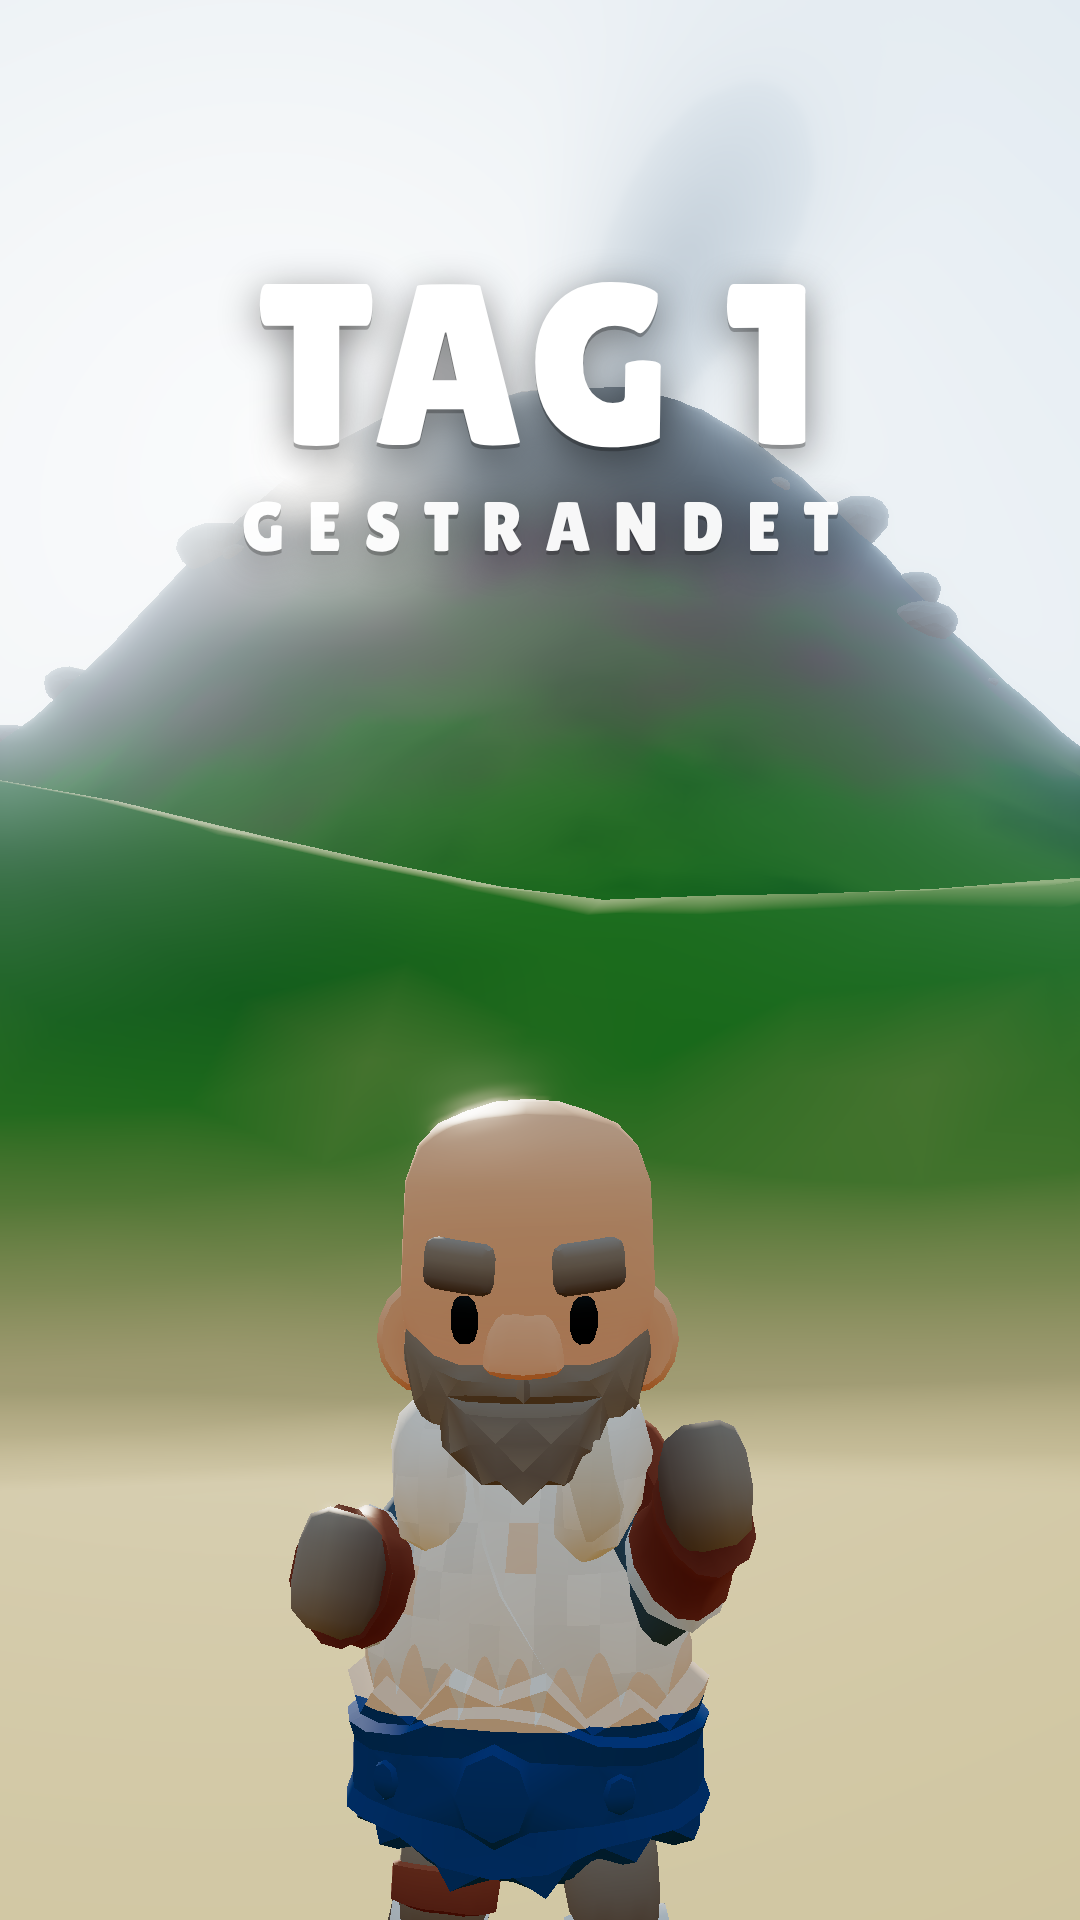
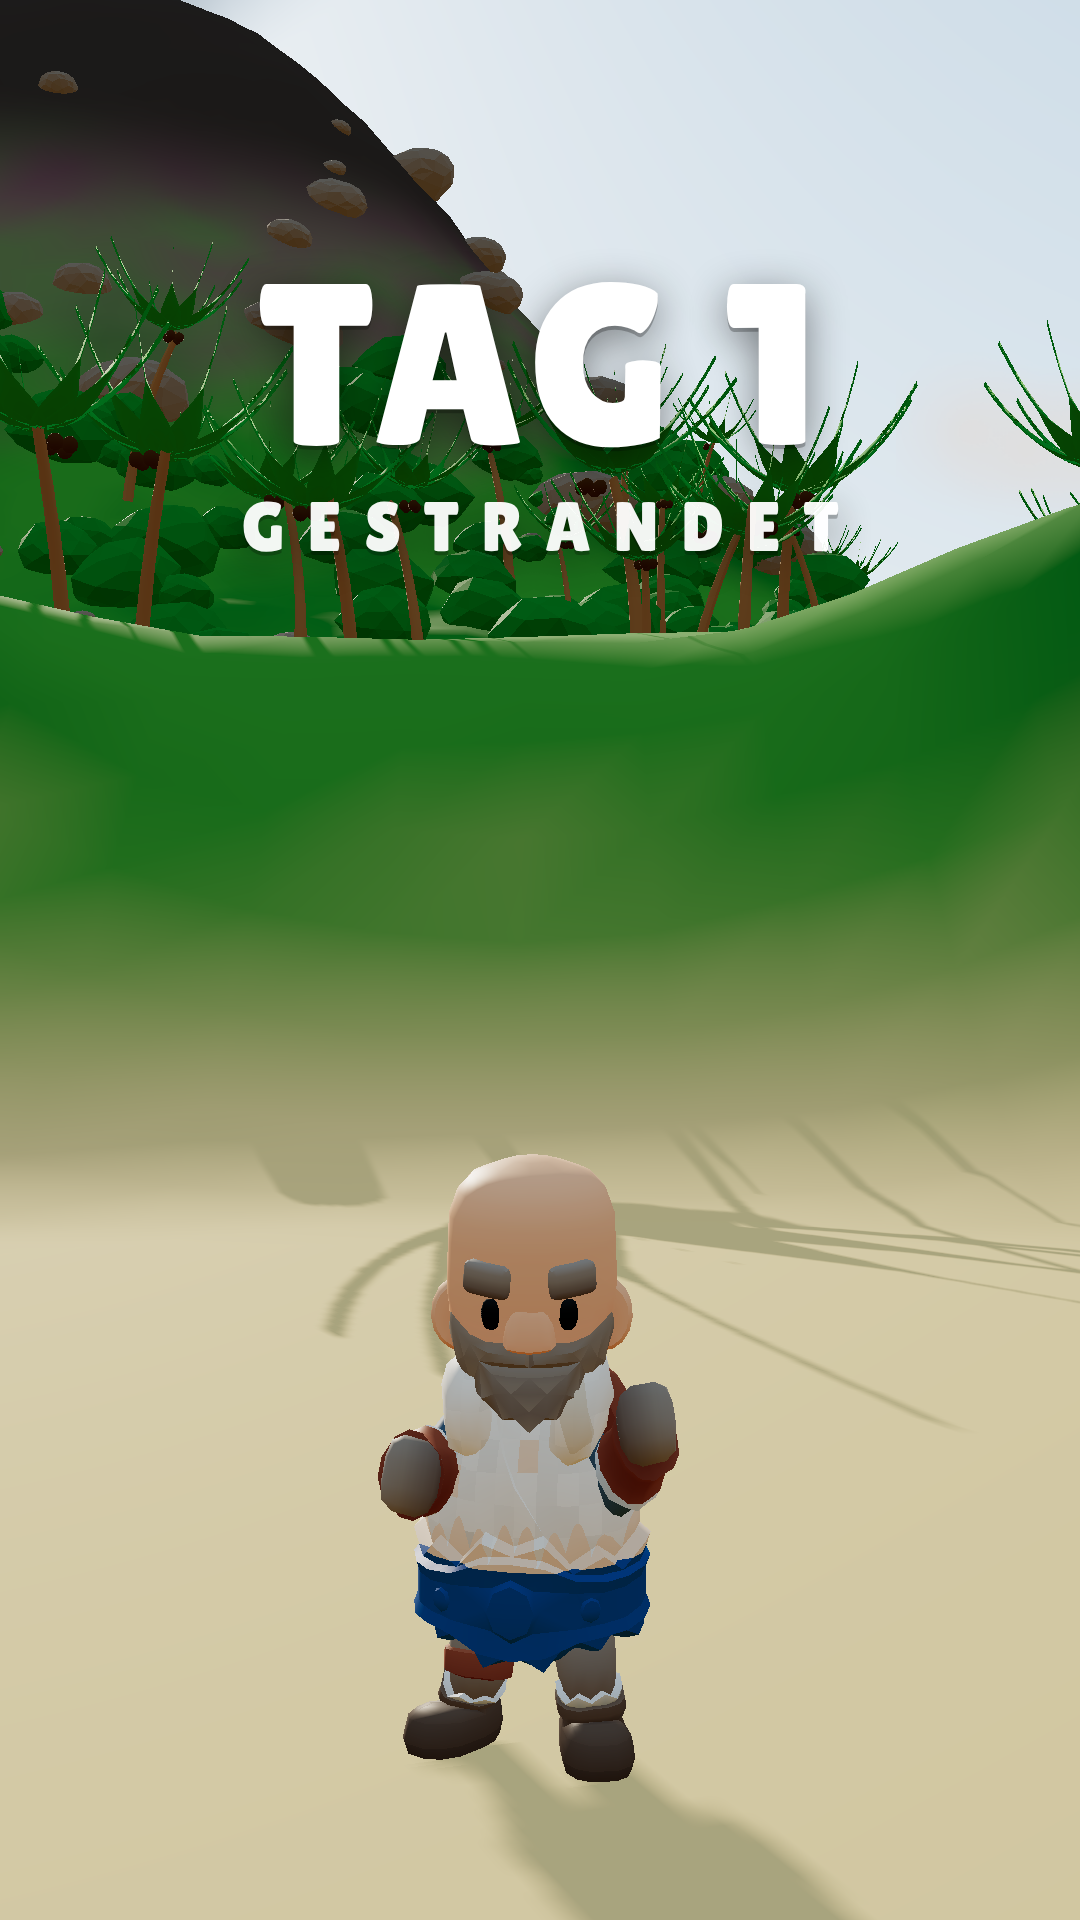
Gestrandet Tag 1: neues, schlichtes Thumbnail mit scharfer Insel
Claude-Session: https://claude.ai/code/session_018P2byEHYqSH1WwRmbtpSUq

diff --git a/gestrandet/vorschau-tag1/index.html b/gestrandet/vorschau-tag1/index.html
@@ -760,6 +760,21 @@ loaded.then(() => {
       renderer.setPixelRatio(1); renderer.setSize(1080, 1920, false); composer.setSize(1080, 1920);
     },
     warp: x => x,
+    thumb2(back, up, fov, tY, clear) {
+      renderAt(W.okay + 3.2);
+      scene.fog = null; bloom.strength = 0; renderer.toneMappingExposure = 0.9;
+      const P = GUY_POS.clone();
+      if (clear) scene.traverse(o => { if (!o.isInstancedMesh) return; const L = [veg.palms, veg.bushes, veg.rocks].find(l => l.length === o.count); if (!L) return;
+        L.forEach(([x, y, z], i) => { const dx = x - P.x, dz = z - P.z; if (dz > -clear && dz < back + 2 && Math.abs(dx) < 4 + Math.max(0, -dz) * 0.5) { o.getMatrixAt(i, _m); _m.decompose(_pp, _q, _s); _s.set(0, 0, 0); _m.compose(_pp, _q, _s); o.setMatrixAt(i, _m); } });
+        o.instanceMatrix.needsUpdate = true; });
+      guy.rotation.y = 0; poseAt(W.okay + 3.2); guy.position.copy(P);
+      kevin.visible = false; parrots.forEach(p => p.b.visible = false);
+      scene.traverse(o => { if (o.isGroup && o.children.length === 2 && o.position.distanceTo(GUY_POS) < 3 && o !== kevin && o !== guy) o.visible = false; });
+      camera.fov = fov; camera.updateProjectionMatrix();
+      camera.position.set(P.x, P.y + up, P.z + back);
+      camera.lookAt(P.x, P.y + tY, P.z - 60);
+      composer.render();
+    },
     thumb(dist, up, side, fov, lookUp) {
       renderAt(W.okay + 3.2);
       // a viewpoint on the slope, facing away from the volcano

diff --git a/gestrandet/vorschau-tag1/render.html b/gestrandet/vorschau-tag1/render.html
@@ -761,6 +761,21 @@ loaded.then(() => {
       renderer.setPixelRatio(1); renderer.setSize(1080, 1920, false); composer.setSize(1080, 1920);
     },
     warp: x => x,
+    thumb2(back, up, fov, tY, clear) {
+      renderAt(W.okay + 3.2);
+      scene.fog = null; bloom.strength = 0; renderer.toneMappingExposure = 0.9;
+      const P = GUY_POS.clone();
+      if (clear) scene.traverse(o => { if (!o.isInstancedMesh) return; const L = [veg.palms, veg.bushes, veg.rocks].find(l => l.length === o.count); if (!L) return;
+        L.forEach(([x, y, z], i) => { const dx = x - P.x, dz = z - P.z; if (dz > -clear && dz < back + 2 && Math.abs(dx) < 4 + Math.max(0, -dz) * 0.5) { o.getMatrixAt(i, _m); _m.decompose(_pp, _q, _s); _s.set(0, 0, 0); _m.compose(_pp, _q, _s); o.setMatrixAt(i, _m); } });
+        o.instanceMatrix.needsUpdate = true; });
+      guy.rotation.y = 0; poseAt(W.okay + 3.2); guy.position.copy(P);
+      kevin.visible = false; parrots.forEach(p => p.b.visible = false);
+      scene.traverse(o => { if (o.isGroup && o.children.length === 2 && o.position.distanceTo(GUY_POS) < 3 && o !== kevin && o !== guy) o.visible = false; });
+      camera.fov = fov; camera.updateProjectionMatrix();
+      camera.position.set(P.x, P.y + up, P.z + back);
+      camera.lookAt(P.x, P.y + tY, P.z - 60);
+      composer.render();
+    },
     thumb(dist, up, side, fov, lookUp) {
       renderAt(W.okay + 3.2);
       // a viewpoint on the slope, facing away from the volcano

diff --git a/gestrandet/vorschau-tag1/template.html b/gestrandet/vorschau-tag1/template.html
@@ -760,6 +760,21 @@ loaded.then(() => {
       renderer.setPixelRatio(1); renderer.setSize(1080, 1920, false); composer.setSize(1080, 1920);
     },
     warp: x => x,
+    thumb2(back, up, fov, tY, clear) {
+      renderAt(W.okay + 3.2);
+      scene.fog = null; bloom.strength = 0; renderer.toneMappingExposure = 0.9;
+      const P = GUY_POS.clone();
+      if (clear) scene.traverse(o => { if (!o.isInstancedMesh) return; const L = [veg.palms, veg.bushes, veg.rocks].find(l => l.length === o.count); if (!L) return;
+        L.forEach(([x, y, z], i) => { const dx = x - P.x, dz = z - P.z; if (dz > -clear && dz < back + 2 && Math.abs(dx) < 4 + Math.max(0, -dz) * 0.5) { o.getMatrixAt(i, _m); _m.decompose(_pp, _q, _s); _s.set(0, 0, 0); _m.compose(_pp, _q, _s); o.setMatrixAt(i, _m); } });
+        o.instanceMatrix.needsUpdate = true; });
+      guy.rotation.y = 0; poseAt(W.okay + 3.2); guy.position.copy(P);
+      kevin.visible = false; parrots.forEach(p => p.b.visible = false);
+      scene.traverse(o => { if (o.isGroup && o.children.length === 2 && o.position.distanceTo(GUY_POS) < 3 && o !== kevin && o !== guy) o.visible = false; });
+      camera.fov = fov; camera.updateProjectionMatrix();
+      camera.position.set(P.x, P.y + up, P.z + back);
+      camera.lookAt(P.x, P.y + tY, P.z - 60);
+      composer.render();
+    },
     thumb(dist, up, side, fov, lookUp) {
       renderAt(W.okay + 3.2);
       // a viewpoint on the slope, facing away from the volcano
